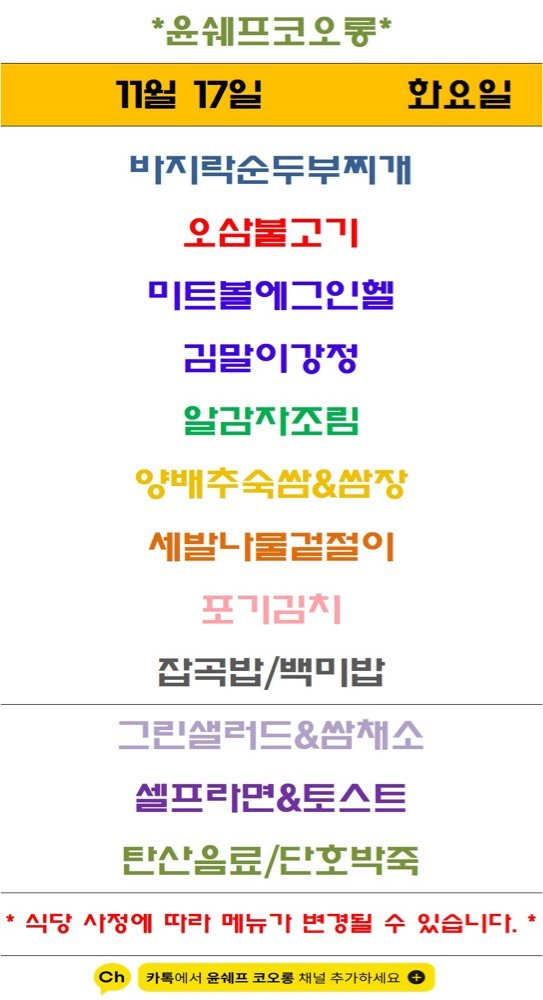
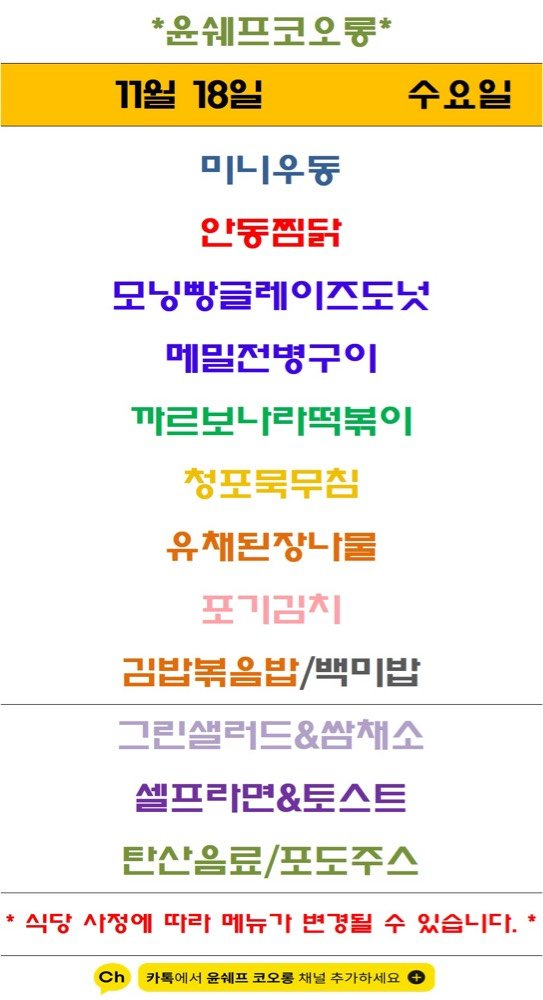
Update menu board assets

diff --git a/guro-menu/index.html b/guro-menu/index.html
@@ -32,7 +32,7 @@
   </header>
   <section class="meta">
     <div><small>기준 날짜</small><strong>2026년 11월 18일 수요일</strong></div>
-    <div><small>최종 갱신</small><strong>2026-11-18 09:13:54</strong></div>
+    <div><small>최종 갱신</small><strong>2026-11-18 09:24:27</strong></div>
     <div><small>등록 식당</small><strong>5개</strong></div>
   </section>
   <div class="notice">공개 카카오 채널의 메뉴 이미지를 자동 수집하고 OCR로 정리합니다. 텍스트에 오타가 있을 수 있으니 식단 이미지를 함께 확인해 주세요.</div>
@@ -103,8 +103,8 @@
           <a class="channel" href="https://pf.kakao.com/_Xxhxkhs" target="_blank" rel="noopener">원본 채널</a>
         </div>
         <img class="menu-image" src="./images/yoon-chef-kolon.png" alt="윤쉐프 코오롱 식단 이미지" loading="lazy">
-        <p class="message">최신 공개 식단 이미지의 텍스트입니다. 날짜는 원본 이미지를 확인해 주세요.</p>
-        <ul><li>월 17일 gree</li><li>바지락순두부찌개</li><li>오삼불고기</li><li>미트볼에그인웰</li><li>러말이강정</li><li>알람자조림</li><li>세발나물겉절이</li><li>깝곡밥/백미밥</li><li>그린샐러드&amp;쌈재소</li><li>셀프라면&amp;토스트</li><li>탄산음료/단호박죽</li></ul>
+        
+        <ul><li>미니우동</li><li>안동찜닭</li><li>모닝빵글레이즈도닛</li><li>메뭘전병구이</li><li>까르보나라떡볶이</li><li>유채된장나물</li><li>리밥복음밥/백미밥</li><li>그린샐러드&amp;쌈채소</li><li>셀프라면&amp;토스트</li><li>탄산음료/포도주스</li></ul>
       </article>
   </section>
   <section class="seo" aria-label="검색 정보">한신IT타워 구내식당 자연푸드 구내식당 더이츠푸드 벽산더이룸 윤쉐프 코오롱 한신IT타워 벽산디지털밸리7차 대륭포스트타워1차 벽산디지털밸리1차 코오롱싸이언스밸리1차 서울 구로구 디지털로 272 한신IT타워 지하1층 서울 구로구 디지털로33길 50 벽산디지털밸리7차 지하1층 서울 구로구 디지털로 288 대륭포스트타워1차 지하1층 서울 구로구 디지털로27길 24 벽산디지털밸리1차 지하1층 서울 구로구 디지털로34길 43 코오롱싸이언스밸리1차 지하1층</section>

diff --git a/menu-today/index.html b/menu-today/index.html
@@ -209,7 +209,7 @@
 
     <section class="meta-bar">
       <div class="meta-card"><div class="meta-label">기준 날짜</div><div class="meta-value">2026년 11월 18일 수요일</div></div>
-      <div class="meta-card"><div class="meta-label">최종 가져온 시간</div><div class="meta-value">2026-11-18 09:13:42</div></div>
+      <div class="meta-card"><div class="meta-label">최종 가져온 시간</div><div class="meta-value">2026-11-18 09:24:17</div></div>
       <div class="meta-card"><div class="meta-label">확인 완료</div><div class="meta-value">9개 식당</div></div>
       <div class="meta-card"><div class="meta-label">준비중</div><div class="meta-value">3개 채널</div></div>
     </section>
